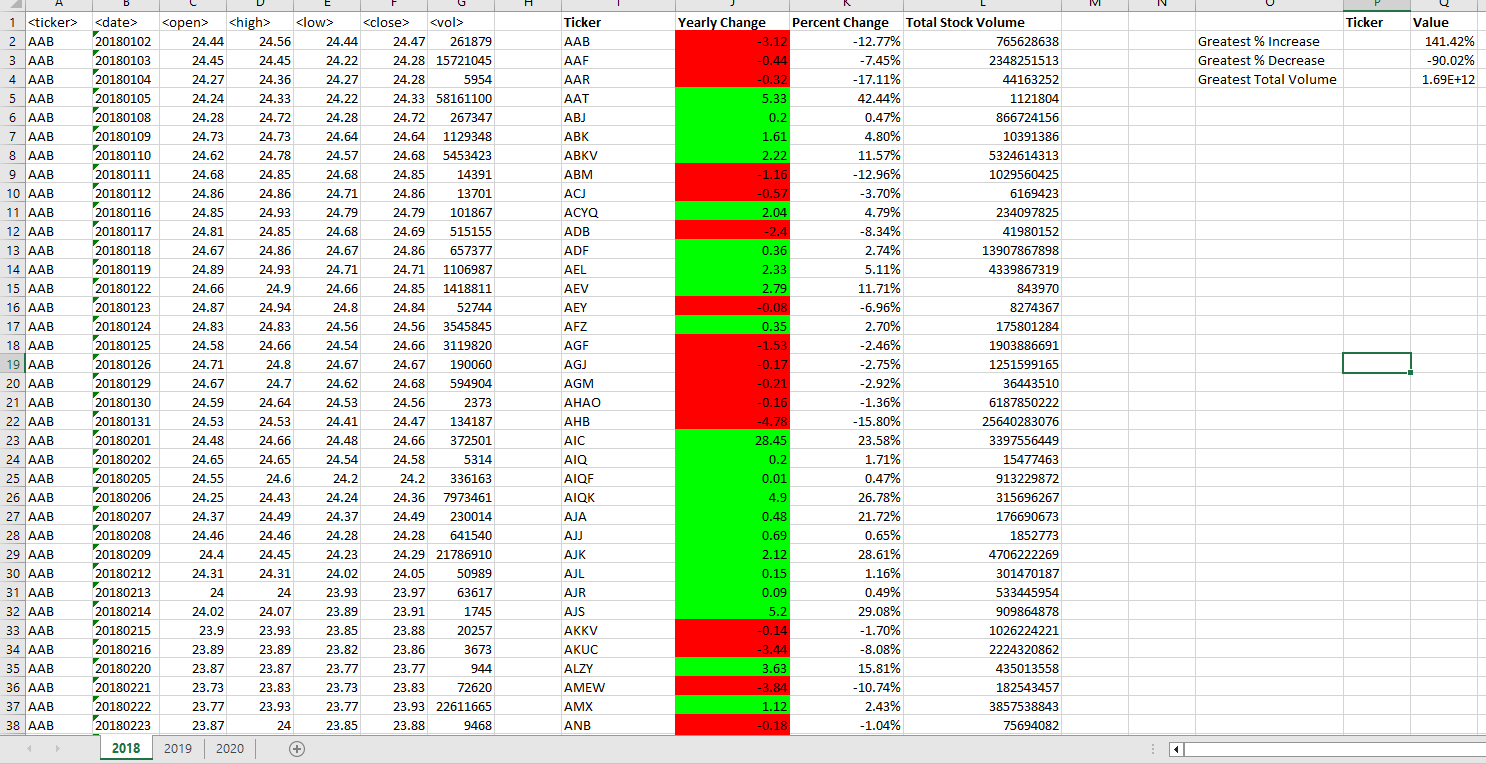
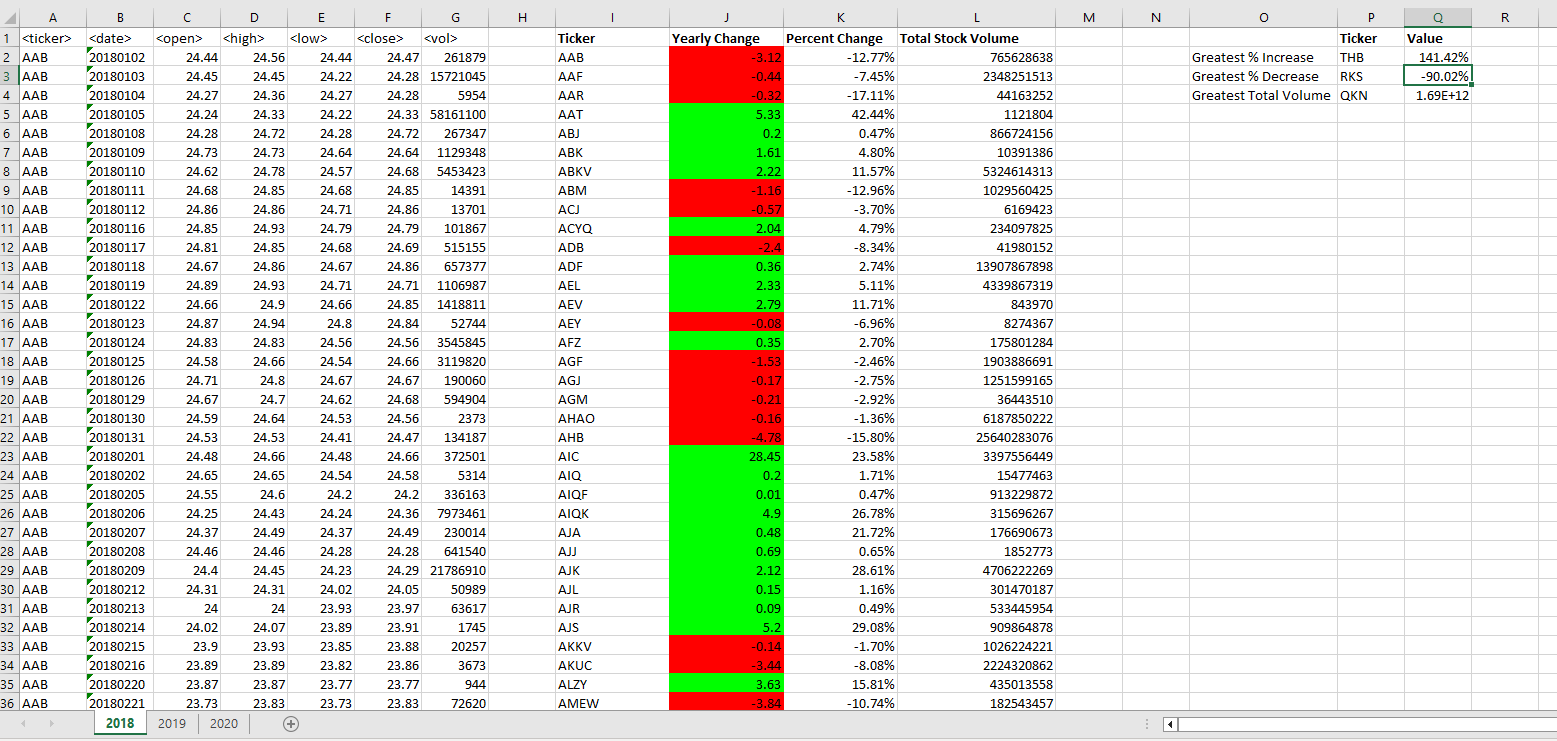
assignment re-submission
based on feedback received from my first submission

diff --git a/README.md b/README.md
@@ -1,6 +1,6 @@
 # VBA-Challenge
  Week 2 Challenge Assignment
-Started Aug 27th Due Date: Aug 31st
+
 #1 Inserted new column headers: Ticker, Yearly Change, Percent Change, Total Stock Volume on all sheets
 #2 Output populating the new columns with corresponding values
 I had help from a Learning Assistant to identify that my code was wrong, and I needed to make some corrections:
@@ -11,9 +11,19 @@ I had help from a Learning Assistant to identify that my code was wrong, and I n
     OpenPrice = ws.Cells(Start, 3).Value
     ClosePrice = ws.Cells(i, 6).Value
 
+    YearlyChange = ClosePrice - OpenPrice        
+    PercentChange = YearlyChange / OpenPrice
+    YearlyChange = ws.Range("J" & Row).Value
+                
+    PercentChange = ws.Range("K" & Row).Value
+
     Start = i + 1
 
 #3 Formatted the Yearly Change column to show 'red' for negative and 'green' for positive changes
     I learnt how to format the percent change column to show red for negative and green for positive  from my personal study using the resources provided: https://www.homeandlearn.org/excel_vba_practice1.html 
 
 #4 Output the Greatest % Increase, Greatest % Decrease and Greatest Total Volume
+    I reached out to a Learning Assistant when my code was not working. It turned out that I needed to type "Set" before Set Rng = ws.Range("K2:K" & lastRow) and Set PercentIncrease = ws.Range("Q2")
+
+#5 To output the corresponding ticker symbol for #4
+    I had a tutoring session to clarify what further steps I needed to do to ensure that all assignment requirements were met. I had to declare new variables for the summary table and reference the accurate cells using the new variables to return summary values and corresponding ticker symbols.
